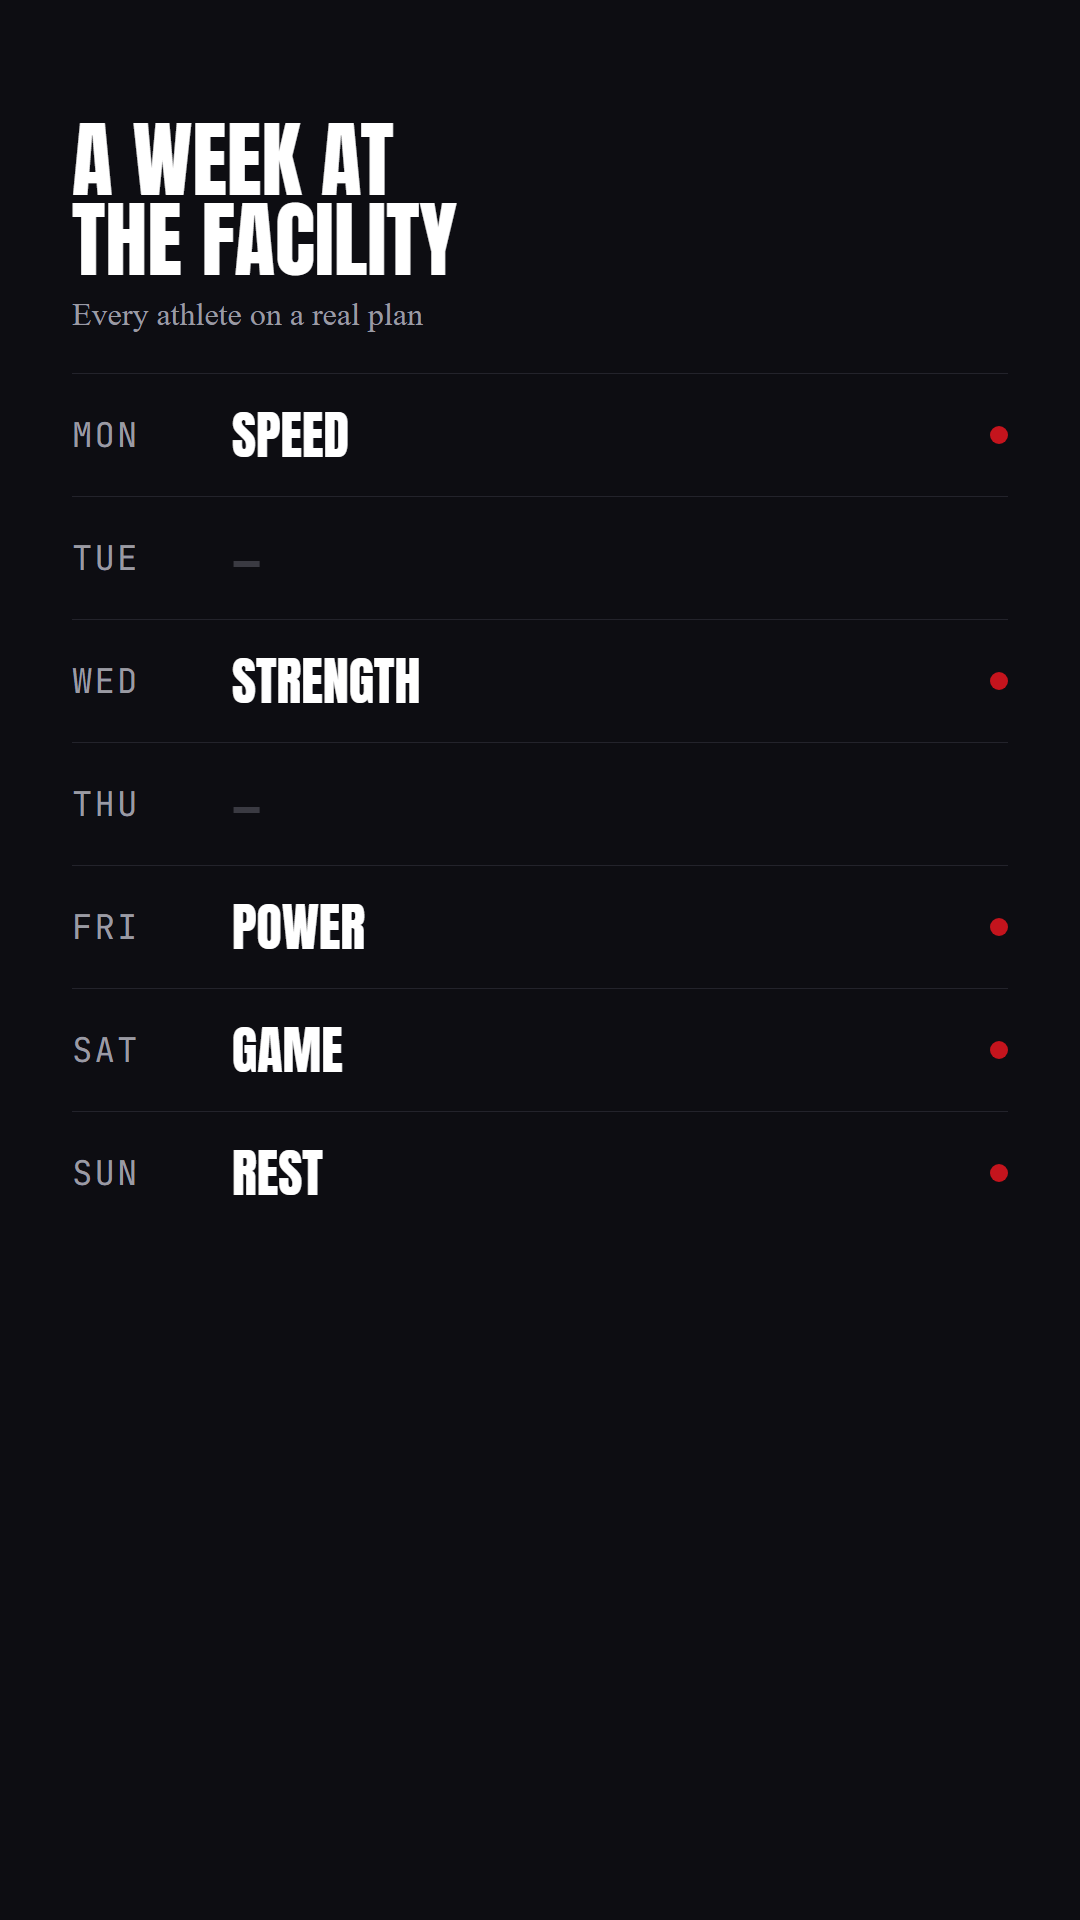
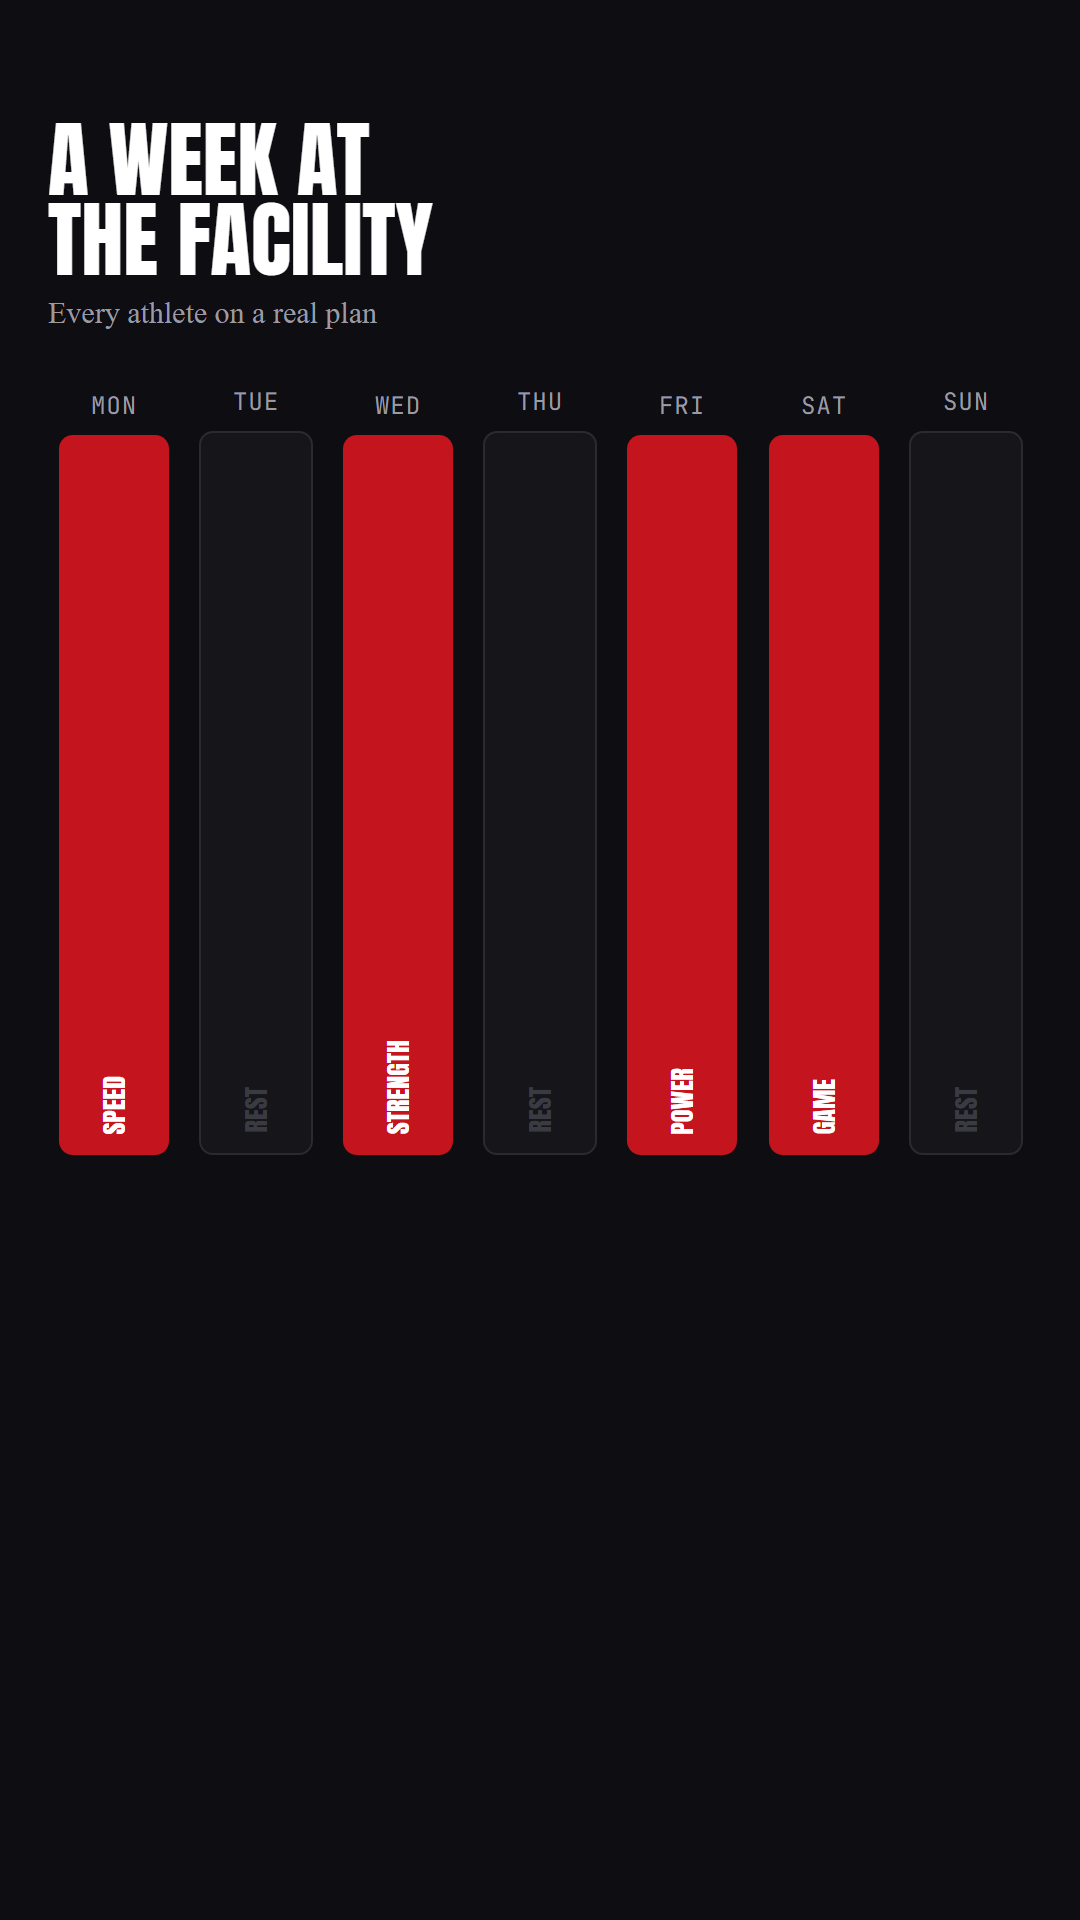
Track B: fix list-steps~timeline near-twin (horizontal week-grid)
timeline-schedule restructured from vertical day-rows (which rhymed with list-steps'
vertical numbered rows) into a horizontal 7-column week-calendar grid — a distinct
layout family. Measured: list-steps ~ timeline 0.695 -> 0.483; overall max cross-design
0.683 (<0.70); Vendi 7.76 -> 7.92. npm test 78. Next phase: per-cluster sub-look spectrum.

diff --git a/templates/_examples/ex-014-timeline-schedule.jsx b/templates/_examples/ex-014-timeline-schedule.jsx
@@ -2,43 +2,52 @@
 export default function Example() {
   return (
     <div style={{ width: 1080, height: 1920, position: "relative", overflow: "hidden", background: "#0d0d12" }}>
-      <div style={{ position: "absolute", inset: 0, padding: "120px 72px", boxSizing: "border-box" }}>
+      <div style={{ position: "absolute", inset: 0, padding: "120px 48px", boxSizing: "border-box" }}>
         <div style={{ fontFamily: "Anton", color: "#fff", fontSize: 84, textTransform: "uppercase", lineHeight: 0.95 }}>A week at<br/>the facility</div>
-        <div style={{ fontFamily: "Geist", color: "#9a9aa3", fontSize: 32, margin: "16px 0 40px" }}>Every athlete on a real plan</div>
-        <div style={{ display: "flex", alignItems: "center", borderTop: "1px solid #23232b", padding: "22px 0" }}>
-          <div style={{ width: 160, fontFamily: "JetBrains Mono", color: "#9a9aa3", fontSize: 34, letterSpacing: "0.06em" }}>MON</div>
-          <div style={{ fontFamily: "Anton", color: "#fff", fontSize: 52, textTransform: "uppercase" }}>SPEED</div>
-          <div style={{ marginLeft: "auto", width: 18, height: 18, borderRadius: "50%", background: "#c4141d" }} />
+        <div style={{ fontFamily: "Geist", color: "#9a9aa3", fontSize: 30, margin: "16px 0 56px" }}>Every athlete on a real plan</div>
+        <div style={{ display: "flex", gap: 10, alignItems: "flex-end" }}>
+          <div style={{ flex: 1, display: "flex", flexDirection: "column", alignItems: "center" }}>
+          <div style={{ fontFamily: "JetBrains Mono", color: "#9a9aa3", fontSize: 24, letterSpacing: "0.04em", marginBottom: 14 }}>MON</div>
+          <div style={{ width: "84%", height: 700, borderRadius: 14, background: "#c4141d", border: "none", display: "flex", alignItems: "flex-end", justifyContent: "center", paddingBottom: 20 }}>
+            <div style={{ fontFamily: "Anton", color: "#fff", fontSize: 26, textTransform: "uppercase", writingMode: "vertical-rl", transform: "rotate(180deg)" }}>SPEED</div>
+          </div>
         </div>
-        <div style={{ display: "flex", alignItems: "center", borderTop: "1px solid #23232b", padding: "22px 0" }}>
-          <div style={{ width: 160, fontFamily: "JetBrains Mono", color: "#9a9aa3", fontSize: 34, letterSpacing: "0.06em" }}>TUE</div>
-          <div style={{ fontFamily: "Anton", color: "#3a3a42", fontSize: 52, textTransform: "uppercase" }}>—</div>
-          
+          <div style={{ flex: 1, display: "flex", flexDirection: "column", alignItems: "center" }}>
+          <div style={{ fontFamily: "JetBrains Mono", color: "#9a9aa3", fontSize: 24, letterSpacing: "0.04em", marginBottom: 14 }}>TUE</div>
+          <div style={{ width: "84%", height: 700, borderRadius: 14, background: "#15151a", border: "2px solid #2a2a32", display: "flex", alignItems: "flex-end", justifyContent: "center", paddingBottom: 20 }}>
+            <div style={{ fontFamily: "Anton", color: "#3a3a42", fontSize: 26, textTransform: "uppercase", writingMode: "vertical-rl", transform: "rotate(180deg)" }}>REST</div>
+          </div>
         </div>
-        <div style={{ display: "flex", alignItems: "center", borderTop: "1px solid #23232b", padding: "22px 0" }}>
-          <div style={{ width: 160, fontFamily: "JetBrains Mono", color: "#9a9aa3", fontSize: 34, letterSpacing: "0.06em" }}>WED</div>
-          <div style={{ fontFamily: "Anton", color: "#fff", fontSize: 52, textTransform: "uppercase" }}>STRENGTH</div>
-          <div style={{ marginLeft: "auto", width: 18, height: 18, borderRadius: "50%", background: "#c4141d" }} />
+          <div style={{ flex: 1, display: "flex", flexDirection: "column", alignItems: "center" }}>
+          <div style={{ fontFamily: "JetBrains Mono", color: "#9a9aa3", fontSize: 24, letterSpacing: "0.04em", marginBottom: 14 }}>WED</div>
+          <div style={{ width: "84%", height: 700, borderRadius: 14, background: "#c4141d", border: "none", display: "flex", alignItems: "flex-end", justifyContent: "center", paddingBottom: 20 }}>
+            <div style={{ fontFamily: "Anton", color: "#fff", fontSize: 26, textTransform: "uppercase", writingMode: "vertical-rl", transform: "rotate(180deg)" }}>STRENGTH</div>
+          </div>
         </div>
-        <div style={{ display: "flex", alignItems: "center", borderTop: "1px solid #23232b", padding: "22px 0" }}>
-          <div style={{ width: 160, fontFamily: "JetBrains Mono", color: "#9a9aa3", fontSize: 34, letterSpacing: "0.06em" }}>THU</div>
-          <div style={{ fontFamily: "Anton", color: "#3a3a42", fontSize: 52, textTransform: "uppercase" }}>—</div>
-          
+          <div style={{ flex: 1, display: "flex", flexDirection: "column", alignItems: "center" }}>
+          <div style={{ fontFamily: "JetBrains Mono", color: "#9a9aa3", fontSize: 24, letterSpacing: "0.04em", marginBottom: 14 }}>THU</div>
+          <div style={{ width: "84%", height: 700, borderRadius: 14, background: "#15151a", border: "2px solid #2a2a32", display: "flex", alignItems: "flex-end", justifyContent: "center", paddingBottom: 20 }}>
+            <div style={{ fontFamily: "Anton", color: "#3a3a42", fontSize: 26, textTransform: "uppercase", writingMode: "vertical-rl", transform: "rotate(180deg)" }}>REST</div>
+          </div>
         </div>
-        <div style={{ display: "flex", alignItems: "center", borderTop: "1px solid #23232b", padding: "22px 0" }}>
-          <div style={{ width: 160, fontFamily: "JetBrains Mono", color: "#9a9aa3", fontSize: 34, letterSpacing: "0.06em" }}>FRI</div>
-          <div style={{ fontFamily: "Anton", color: "#fff", fontSize: 52, textTransform: "uppercase" }}>POWER</div>
-          <div style={{ marginLeft: "auto", width: 18, height: 18, borderRadius: "50%", background: "#c4141d" }} />
+          <div style={{ flex: 1, display: "flex", flexDirection: "column", alignItems: "center" }}>
+          <div style={{ fontFamily: "JetBrains Mono", color: "#9a9aa3", fontSize: 24, letterSpacing: "0.04em", marginBottom: 14 }}>FRI</div>
+          <div style={{ width: "84%", height: 700, borderRadius: 14, background: "#c4141d", border: "none", display: "flex", alignItems: "flex-end", justifyContent: "center", paddingBottom: 20 }}>
+            <div style={{ fontFamily: "Anton", color: "#fff", fontSize: 26, textTransform: "uppercase", writingMode: "vertical-rl", transform: "rotate(180deg)" }}>POWER</div>
+          </div>
         </div>
-        <div style={{ display: "flex", alignItems: "center", borderTop: "1px solid #23232b", padding: "22px 0" }}>
-          <div style={{ width: 160, fontFamily: "JetBrains Mono", color: "#9a9aa3", fontSize: 34, letterSpacing: "0.06em" }}>SAT</div>
-          <div style={{ fontFamily: "Anton", color: "#fff", fontSize: 52, textTransform: "uppercase" }}>GAME</div>
-          <div style={{ marginLeft: "auto", width: 18, height: 18, borderRadius: "50%", background: "#c4141d" }} />
+          <div style={{ flex: 1, display: "flex", flexDirection: "column", alignItems: "center" }}>
+          <div style={{ fontFamily: "JetBrains Mono", color: "#9a9aa3", fontSize: 24, letterSpacing: "0.04em", marginBottom: 14 }}>SAT</div>
+          <div style={{ width: "84%", height: 700, borderRadius: 14, background: "#c4141d", border: "none", display: "flex", alignItems: "flex-end", justifyContent: "center", paddingBottom: 20 }}>
+            <div style={{ fontFamily: "Anton", color: "#fff", fontSize: 26, textTransform: "uppercase", writingMode: "vertical-rl", transform: "rotate(180deg)" }}>GAME</div>
+          </div>
         </div>
-        <div style={{ display: "flex", alignItems: "center", borderTop: "1px solid #23232b", padding: "22px 0" }}>
-          <div style={{ width: 160, fontFamily: "JetBrains Mono", color: "#9a9aa3", fontSize: 34, letterSpacing: "0.06em" }}>SUN</div>
-          <div style={{ fontFamily: "Anton", color: "#fff", fontSize: 52, textTransform: "uppercase" }}>REST</div>
-          <div style={{ marginLeft: "auto", width: 18, height: 18, borderRadius: "50%", background: "#c4141d" }} />
+          <div style={{ flex: 1, display: "flex", flexDirection: "column", alignItems: "center" }}>
+          <div style={{ fontFamily: "JetBrains Mono", color: "#9a9aa3", fontSize: 24, letterSpacing: "0.04em", marginBottom: 14 }}>SUN</div>
+          <div style={{ width: "84%", height: 700, borderRadius: 14, background: "#15151a", border: "2px solid #2a2a32", display: "flex", alignItems: "flex-end", justifyContent: "center", paddingBottom: 20 }}>
+            <div style={{ fontFamily: "Anton", color: "#3a3a42", fontSize: 26, textTransform: "uppercase", writingMode: "vertical-rl", transform: "rotate(180deg)" }}>REST</div>
+          </div>
+        </div>
         </div>
       </div>
     </div>
